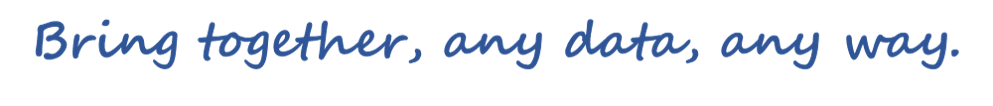
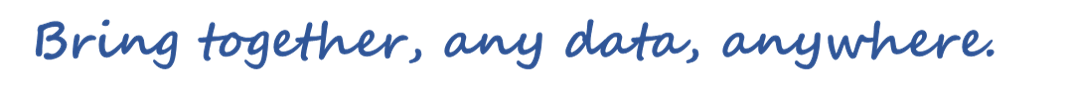
update slogan

Changed region(s): [[0.0312, 0.1698, 0.9678, 0.6509], [0.0937, 0.1698, 0.1249, 0.2547]]

diff --git a/docs/stylesheets/sdi.css b/docs/stylesheets/sdi.css
@@ -32,10 +32,26 @@ h5 {
   background: linear-gradient(to right, rgb(174,199,210), transparent);
 }
 
-        body {
-            background-image: url('/img/slogan.png');
-            background-position: calc(100% - 20px) calc(100% - 20px);
+body {
+ position: relative;
+ margin: 0;
+ padding: 0;
+}
+
+.slogan-div {
+            position: fixed;
+            right: 50px; /* Add margin on the right */
+            top: 70px; /* Add margin on the bottom */
+            width: 318px; /* Set width */
+            height: auto; /* Adjust height automatically */
+            background-size: cover; /* Or use 'auto' depending on your preference */
             background-repeat: no-repeat;
-            background-size: 288px auto;;
-            background-attachment: fixed;
+            z-index: 999; /* Ensure it's in front */
+            
+}
+
+        @media (max-width: 1280px) {
+            .slogan-div {
+                display: none !important; 
+            }
         }

diff --git a/docs/404.html b/docs/404.html
@@ -88,6 +88,7 @@
       
     </div>
     
+  
       
 
   
@@ -259,6 +260,8 @@
   
 </header>
     
+<div class="slogan-div"> <img src="/img/slogan_white.png" width="100%" alt="slogan"></div>
+
     <div class="md-container" data-md-component="container">
       
       

diff --git a/docs/faq/faqlicense/index.html b/docs/faq/faqlicense/index.html
@@ -95,6 +95,7 @@
       
     </div>
     
+  
       
 
   
@@ -268,6 +269,8 @@
   
 </header>
     
+<div class="slogan-div"> <img src="/img/slogan_white.png" width="100%" alt="slogan"></div>
+
     <div class="md-container" data-md-component="container">
       
       

diff --git a/docs/faq/faqsupport/index.html b/docs/faq/faqsupport/index.html
@@ -95,6 +95,7 @@
       
     </div>
     
+  
       
 
   
@@ -268,6 +269,8 @@
   
 </header>
     
+<div class="slogan-div"> <img src="/img/slogan_white.png" width="100%" alt="slogan"></div>
+
     <div class="md-container" data-md-component="container">
       
       

diff --git a/docs/faq/faqtechnical/index.html b/docs/faq/faqtechnical/index.html
@@ -95,6 +95,7 @@
       
     </div>
     
+  
       
 
   
@@ -268,6 +269,8 @@
   
 </header>
     
+<div class="slogan-div"> <img src="/img/slogan_white.png" width="100%" alt="slogan"></div>
+
     <div class="md-container" data-md-component="container">
       
       

diff --git a/docs/index.html b/docs/index.html
@@ -95,6 +95,7 @@
       
     </div>
     
+  
       
 
   
@@ -268,6 +269,8 @@
   
 </header>
     
+<div class="slogan-div"> <img src="/img/slogan_white.png" width="100%" alt="slogan"></div>
+
     <div class="md-container" data-md-component="container">
       
       

diff --git a/docs/languages/index.html b/docs/languages/index.html
@@ -95,6 +95,7 @@
       
     </div>
     
+  
       
 
   
@@ -268,6 +269,8 @@
   
 </header>
     
+<div class="slogan-div"> <img src="/img/slogan_white.png" width="100%" alt="slogan"></div>
+
     <div class="md-container" data-md-component="container">
       
       

diff --git a/docs/license/licensesdi/index.html b/docs/license/licensesdi/index.html
@@ -95,6 +95,7 @@
       
     </div>
     
+  
       
 
   
@@ -268,6 +269,8 @@
   
 </header>
     
+<div class="slogan-div"> <img src="/img/slogan_white.png" width="100%" alt="slogan"></div>
+
     <div class="md-container" data-md-component="container">
       
       

diff --git a/docs/license/thirdparty/index.html b/docs/license/thirdparty/index.html
@@ -95,6 +95,7 @@
       
     </div>
     
+  
       
 
   
@@ -268,6 +269,8 @@
   
 </header>
     
+<div class="slogan-div"> <img src="/img/slogan_white.png" width="100%" alt="slogan"></div>
+
     <div class="md-container" data-md-component="container">
       
       

diff --git a/docs/start/configservice/index.html b/docs/start/configservice/index.html
@@ -95,6 +95,7 @@
       
     </div>
     
+  
       
 
   
@@ -268,6 +269,8 @@
   
 </header>
     
+<div class="slogan-div"> <img src="/img/slogan_white.png" width="100%" alt="slogan"></div>
+
     <div class="md-container" data-md-component="container">
       
       

diff --git a/docs/start/deployservice/index.html b/docs/start/deployservice/index.html
@@ -95,6 +95,7 @@
       
     </div>
     
+  
       
 
   
@@ -268,6 +269,8 @@
   
 </header>
     
+<div class="slogan-div"> <img src="/img/slogan_white.png" width="100%" alt="slogan"></div>
+
     <div class="md-container" data-md-component="container">
       
       

diff --git a/docs/start/installiis/index.html b/docs/start/installiis/index.html
@@ -95,6 +95,7 @@
       
     </div>
     
+  
       
 
   
@@ -268,6 +269,8 @@
   
 </header>
     
+<div class="slogan-div"> <img src="/img/slogan_white.png" width="100%" alt="slogan"></div>
+
     <div class="md-container" data-md-component="container">
       
       
